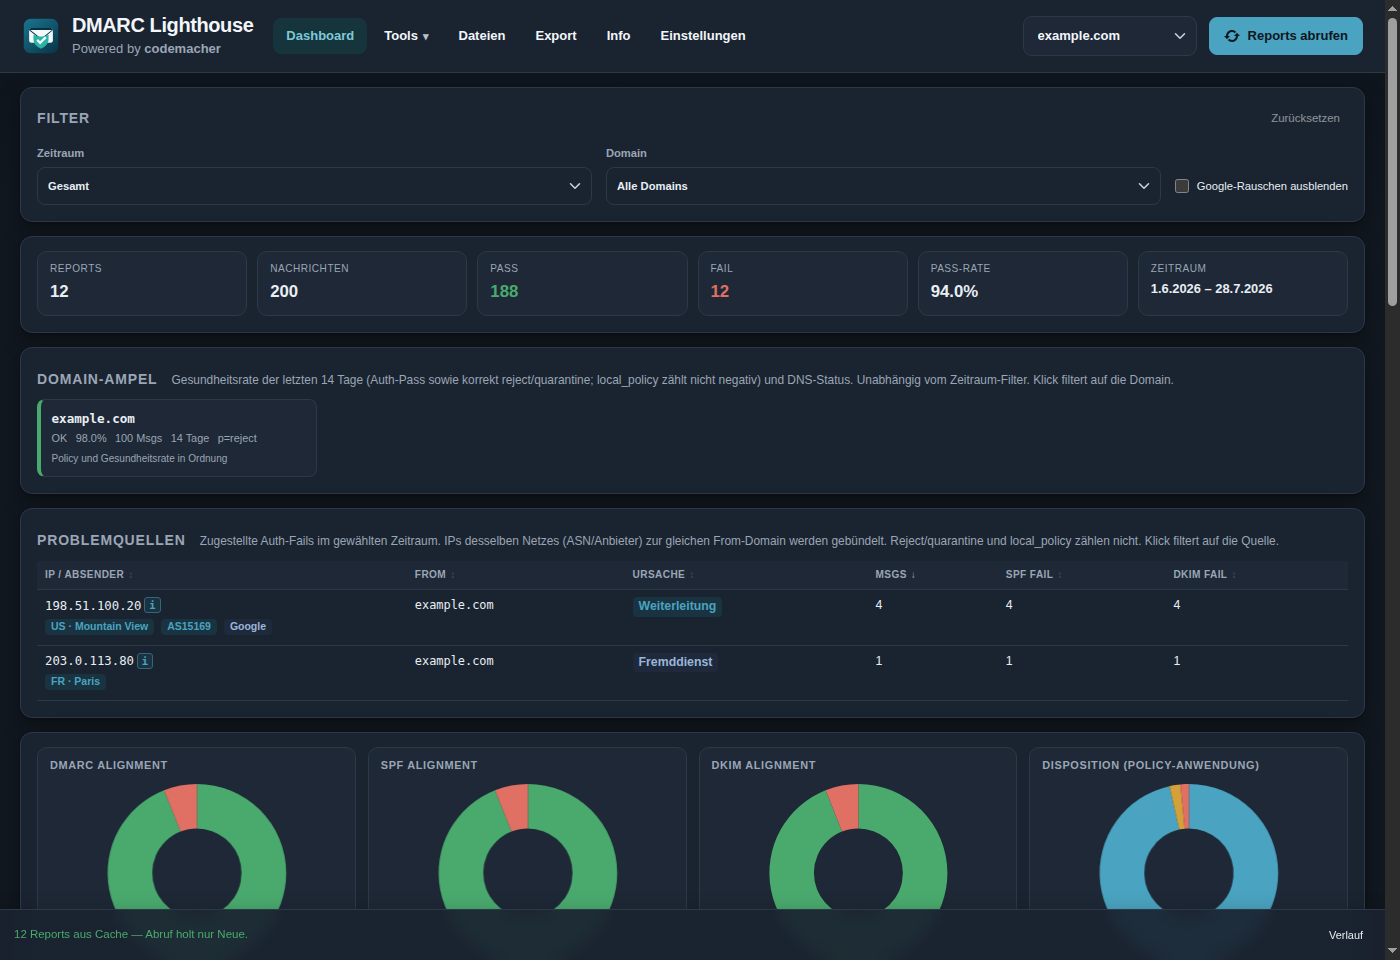
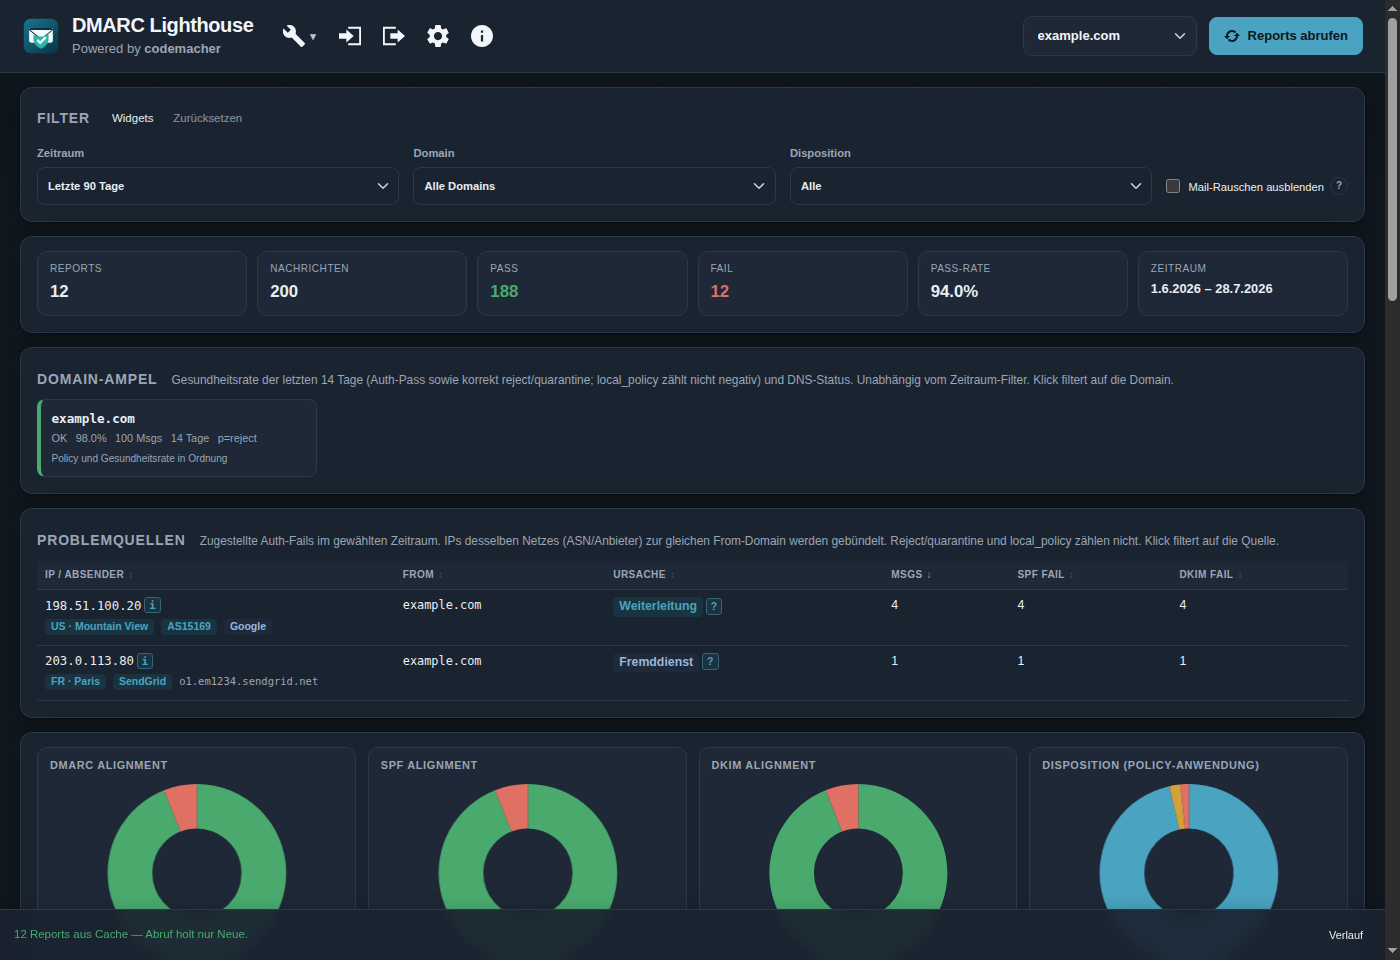
Refactor code structure for improved readability and maintainability

diff --git a/src/renderer/src/screenshots.ts b/src/renderer/src/screenshots.ts
@@ -14,6 +14,7 @@ import {
   dnsDialog,
   dnsDomainEl,
   dnsResultEl,
+  diagnosisDialog,
   emailInspectDialog,
   filterRangeEl,
   rolloutDialog,
@@ -25,7 +26,14 @@ import { renderTransportSecurity } from './transport-view'
 import { applySettings, fillGlobalForm, openSettings, showSettingsTab } from './settings-ui'
 import { clearDrill, state } from './state'
 import { applyTheme } from './theme'
-import { applyView, renderDetail, renderDomainAmpel, renderReports, showResult } from './view'
+import {
+  applyView,
+  openDiagnosis,
+  renderDetail,
+  renderDomainAmpel,
+  renderReports,
+  showResult
+} from './view'
 
 function fillDnsDemo(): void {
   dnsDomainEl.value = 'example.com'
@@ -58,6 +66,7 @@ export function installScreenshotApi(): void {
       if (dnsDialog.open) dnsDialog.close()
       if (rolloutDialog.open) rolloutDialog.close()
       if (emailInspectDialog.open) emailInspectDialog.close()
+      if (diagnosisDialog.open) diagnosisDialog.close()
       document.documentElement.classList.remove('screenshot-full', 'screenshot-dialog')
       document.body.classList.remove('screenshot-full')
       window.scrollTo({ top: 0, left: 0, behavior: 'instant' })
@@ -147,7 +156,8 @@ export function installScreenshotApi(): void {
           lon: 4.9041,
           dnsblHits: ['spamhaus-zen']
         })
-        demoIp('203.0.113.80', null, null, {
+        demoIp('203.0.113.80', 'o1.em1234.sendgrid.net', 'SendGrid', {
+          senderKind: 'esp',
           countryCode: 'FR',
           city: 'Paris',
           lat: 48.8566,
@@ -208,6 +218,12 @@ export function installScreenshotApi(): void {
     },
     closeDns(): void {
       dnsDialog.close()
+    },
+    openDiagnosisDemo(): void {
+      openDiagnosis(['203.0.113.80'])
+    },
+    closeDiagnosis(): void {
+      diagnosisDialog.close()
     },
     openRolloutDemo(): void {
       seedRolloutDns('example.com', DEMO_ROLLOUT_DNS)

diff --git a/src/main/screenshots.ts b/src/main/screenshots.ts
@@ -196,6 +196,11 @@ async function captureLocaleSet(
   await capture(win, join(outDir, 'settings.png'))
   await api(win, 'api.closeSettings()')
 
+  await api(win, 'api.openDiagnosisDemo()')
+  await wait(500)
+  await capture(win, join(outDir, 'diagnosis.png'))
+  await api(win, 'api.closeDiagnosis()')
+
   await api(win, `api.setTheme('light')`)
   await api(win, 'api.openRolloutDemo()')
   await wait(500)

diff --git a/src/preload/index.d.ts b/src/preload/index.d.ts
@@ -88,6 +88,8 @@ declare global {
       closeRollout: () => void
       openDnsDemo: () => void
       closeDns: () => void
+      openDiagnosisDemo: () => void
+      closeDiagnosis: () => void
       openEmailInspectDemo: () => { width: number; height: number }
       closeEmailInspect: () => void
       setTheme: (theme: AppTheme) => void

diff --git a/README.de.md b/README.de.md
@@ -65,6 +65,12 @@ Reporting-Organisationen, Quell-IPs (inkl. Reverse-DNS), From-Domains, einzelne 
 
 ![Tabellen mit Organisationen, IPs, Domains und Report-Details](docs/screenshots/de/tables.png)
 
+### Diagnose — „Warum ist das fehlgeschlagen?“
+
+Klick auf das **?** neben dem Ursache-Badge einer Problemquelle liefert eine Diagnose in Klartext: ein Urteil (legitimer Sender, Fremddienst oder verdächtig), den erkannten Versanddienst, die rohen SPF-/DKIM-Ergebnisse inkl. Alignment und eine konkrete Handlungsempfehlung (z. B. „DKIM-Signing für `example.com` einrichten“). Basiert vollständig auf bereits vorhandenen Report-Daten — Sender-Klassifizierung, Alignment und Auth-Ergebnisse — ganz ohne KI.
+
+![Diagnose-Dialog erklärt, warum eine Quelle fehlgeschlagen ist](docs/screenshots/de/diagnosis.png)
+
 ### Quellenkarte
 
 Quell-IPs auf OpenStreetMap (GeoIP-Koordinaten); Klick auf einen Marker filtert nach IP:
@@ -117,8 +123,7 @@ Mehrere IMAP-Konten, Abruf-/Archiv-Ordner, Auto-Abruf, Alerts, Anreicherung (Geo
 | **Charts**                | Doughnut für DMARC-/SPF-/DKIM-Alignment und Disposition (none/quarantine/reject); Volumen & Pass-Rate über Zeit                                                                                                               |
 | **Tabellen**              | Organisationen, Quell-IPs, From-Domains, einzelne Reports + Record-Details; Klick auf Zeile filtert; sortierbare Spalten, Tastaturnavigation und Virtualisierung langer Tabellen                                              |
 | **IP-Anreicherung**       | Reverse-DNS, erkannter Versanddienst (ESP, Mailbox-Anbieter, SaaS, Gateway, Hosting), Cloud-IP-Ranges (AWS/Google/Cloudflare), GeoIP (GeoLite2 offline + optionaler Online-Fallback), DNSBL/DNSWL, RDAP/WHOIS on-demand       |
-| **Fail-Kategorien**       | Problemquellen zeigen die Ursache: Weiterleitung, Fremddienst, Konfiguration, eigener Sender oder ganz ohne Auth                                                                                                              |
-| **Policy-Rollout**        | Empfehlung für den nächsten Schritt (`none` → `quarantine;t=y` → `quarantine` → `reject;t=y` → `reject`, RFC 9989) mit Grenzwerten, offenen Punkten und Staging-Plan inkl. kopierbarer Records                                            |
+| **Fail-Kategorien**       | Problemquellen zeigen die Ursache: Weiterleitung, Fremddienst, Konfiguration, eigener Sender oder ganz ohne Auth                                                                                                              || **Diagnose**              | Pro Problemquelle ein Urteil in Klartext plus erkannter Sender, rohe SPF-/DKIM-Ergebnisse inkl. Alignment und eine konkrete Empfehlung (z. B. DKIM-Signing einrichten) — aus vorhandenen Report-Daten abgeleitet, ohne KI          || **Policy-Rollout**        | Empfehlung für den nächsten Schritt (`none` → `quarantine;t=y` → `quarantine` → `reject;t=y` → `reject`, RFC 9989) mit Grenzwerten, offenen Punkten und Staging-Plan inkl. kopierbarer Records                                            |
 | **Quellenkarte**          | OpenStreetMap mit GeoIP-Positionen der Quell-IPs; Marker-Klick filtert nach IP                                                                                                                                                |
 | **Domain-Ampel**          | Multi-Domain-Status (Pass-Rate + DMARC/SPF/DKIM-DNS); Klick filtert auf die Domain                                                                                                                                            |
 | **Filter**                | Zeitraum (7 / 30 / 90 Tage / Gesamt / benutzerdefiniert), Domain, angewandte Disposition (Reject / Nicht reject) sowie Drill-Down nach Org, Quell-IP und From-Domain                                                          |

diff --git a/README.md b/README.md
@@ -65,6 +65,12 @@ Reporting organizations, source IPs (including reverse DNS), From domains, indiv
 
 ![Tables with organizations, IPs, domains, and report details](docs/screenshots/en/tables.png)
 
+### Diagnosis — “why did this fail?”
+
+Click the **?** next to a problem source’s cause badge for a plain-language diagnosis: a verdict (legitimate sender, third party, or suspicious), the detected sending service, the raw SPF/DKIM results with their alignment, and a concrete next step (e.g. “set up DKIM signing for `example.com`”). Built entirely from data already in the report — sender classification, alignment, and auth results — no AI involved.
+
+![Diagnosis dialog explaining why a source failed DMARC](docs/screenshots/en/diagnosis.png)
+
 ### Source map
 
 Source IPs on OpenStreetMap (GeoIP coordinates); click a marker to filter by IP:
@@ -118,6 +124,7 @@ Multiple IMAP accounts, fetch/archive folders, auto-fetch, alerts, enrichment (G
 | **Tables**                | Organizations, source IPs, From domains, individual reports + record details; click a row to filter; sortable columns, keyboard navigation, and virtualized long tables                                                          |
 | **IP enrichment**         | Reverse DNS, identified sending service (ESP, mailbox provider, SaaS, gateway, hosting), cloud IP ranges (AWS/Google/Cloudflare), GeoIP (GeoLite2 offline + optional online fallback), DNSBL/DNSWL, on-demand RDAP/WHOIS         |
 | **Failure categories**    | Problem sources name the cause: forwarding, third party, configuration, own sender, or no auth at all                                                                                                                            |
+| **Diagnosis**             | Per problem source, a plain-language verdict plus detected sender, raw SPF/DKIM results with alignment, and a concrete recommendation (e.g. set up DKIM signing) — derived from existing report data, no AI                     |
 | **Policy rollout**        | Recommends the next step (`none` → `quarantine;t=y` → `quarantine` → `reject;t=y` → `reject`, RFC 9989) with thresholds, open items, and a staging plan of ready-to-copy records                                                 |
 | **Source map**            | OpenStreetMap with GeoIP positions of source IPs; marker click drills down by IP                                                                                                                                                 |
 | **Domain health**         | Multi-domain traffic-light (pass rate + DMARC/SPF/DKIM DNS status); click to filter                                                                                                                                              |
